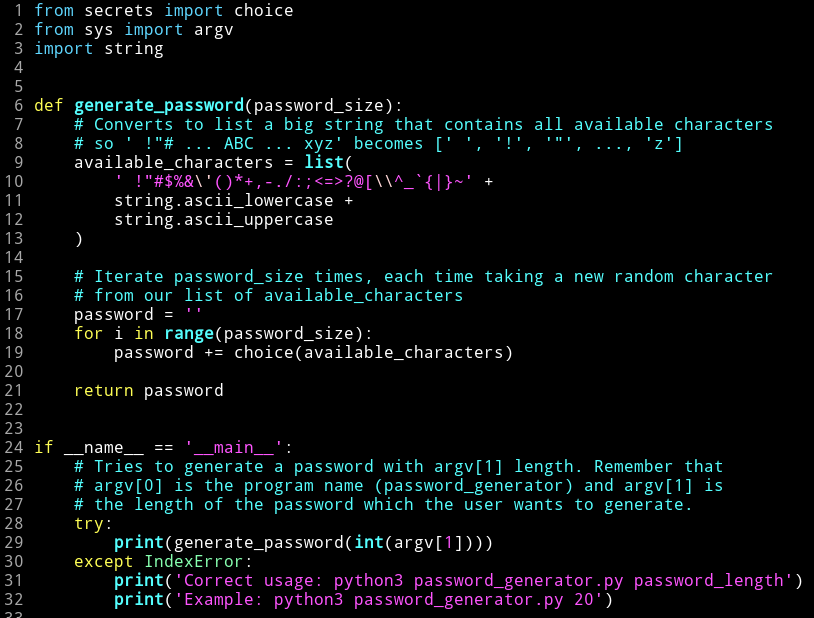
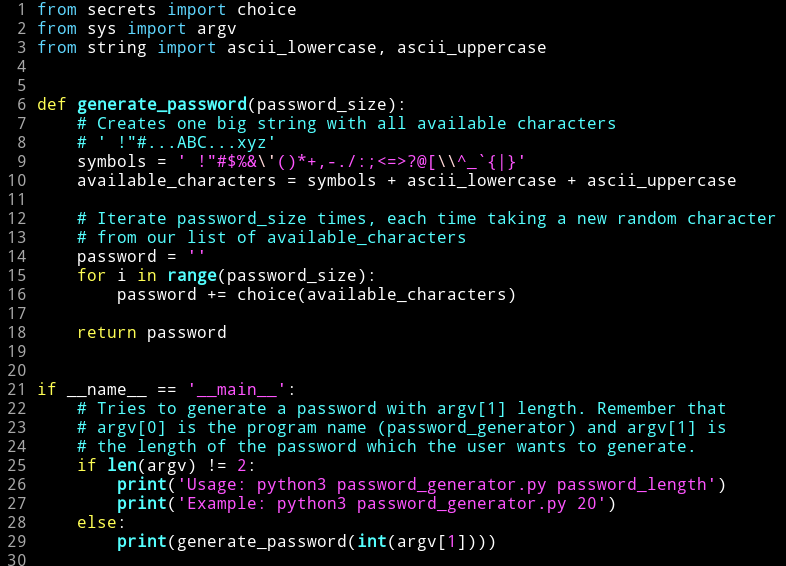
Removing unnecessary conversion to list

diff --git a/Python/Random_Password_Generator/password_generator.py b/Python/Random_Password_Generator/password_generator.py
@@ -1,16 +1,13 @@
 from secrets import choice
 from sys import argv
-import string
+from string import ascii_lowercase, ascii_uppercase
 
 
 def generate_password(password_size):
-    # Converts to list a big string that contains all available characters
-    # so ' !"# ... ABC ... xyz' becomes [' ', '!', '"', ..., 'z']
-    available_characters = list(
-        ' !"#$%&\'()*+,-./:;<=>?@[\\^_`{|}~' +
-        string.ascii_lowercase +
-        string.ascii_uppercase
-    )
+    # Creates one big string with all available characters
+    # ' !"#...ABC...xyz'
+    symbols = ' !"#$%&\'()*+,-./:;<=>?@[\\^_`{|}'
+    available_characters = symbols + ascii_lowercase + ascii_uppercase
 
     # Iterate password_size times, each time taking a new random character
     # from our list of available_characters
@@ -25,8 +22,8 @@ if __name__ == '__main__':
     # Tries to generate a password with argv[1] length. Remember that
     # argv[0] is the program name (password_generator) and argv[1] is
     # the length of the password which the user wants to generate.
-    try:
-        print(generate_password(int(argv[1])))
-    except IndexError:
-        print('Correct usage: python3 password_generator.py password_length')
+    if len(argv) != 2:
+        print('Usage: python3 password_generator.py password_length')
         print('Example: python3 password_generator.py 20')
+    else:
+        print(generate_password(int(argv[1])))
